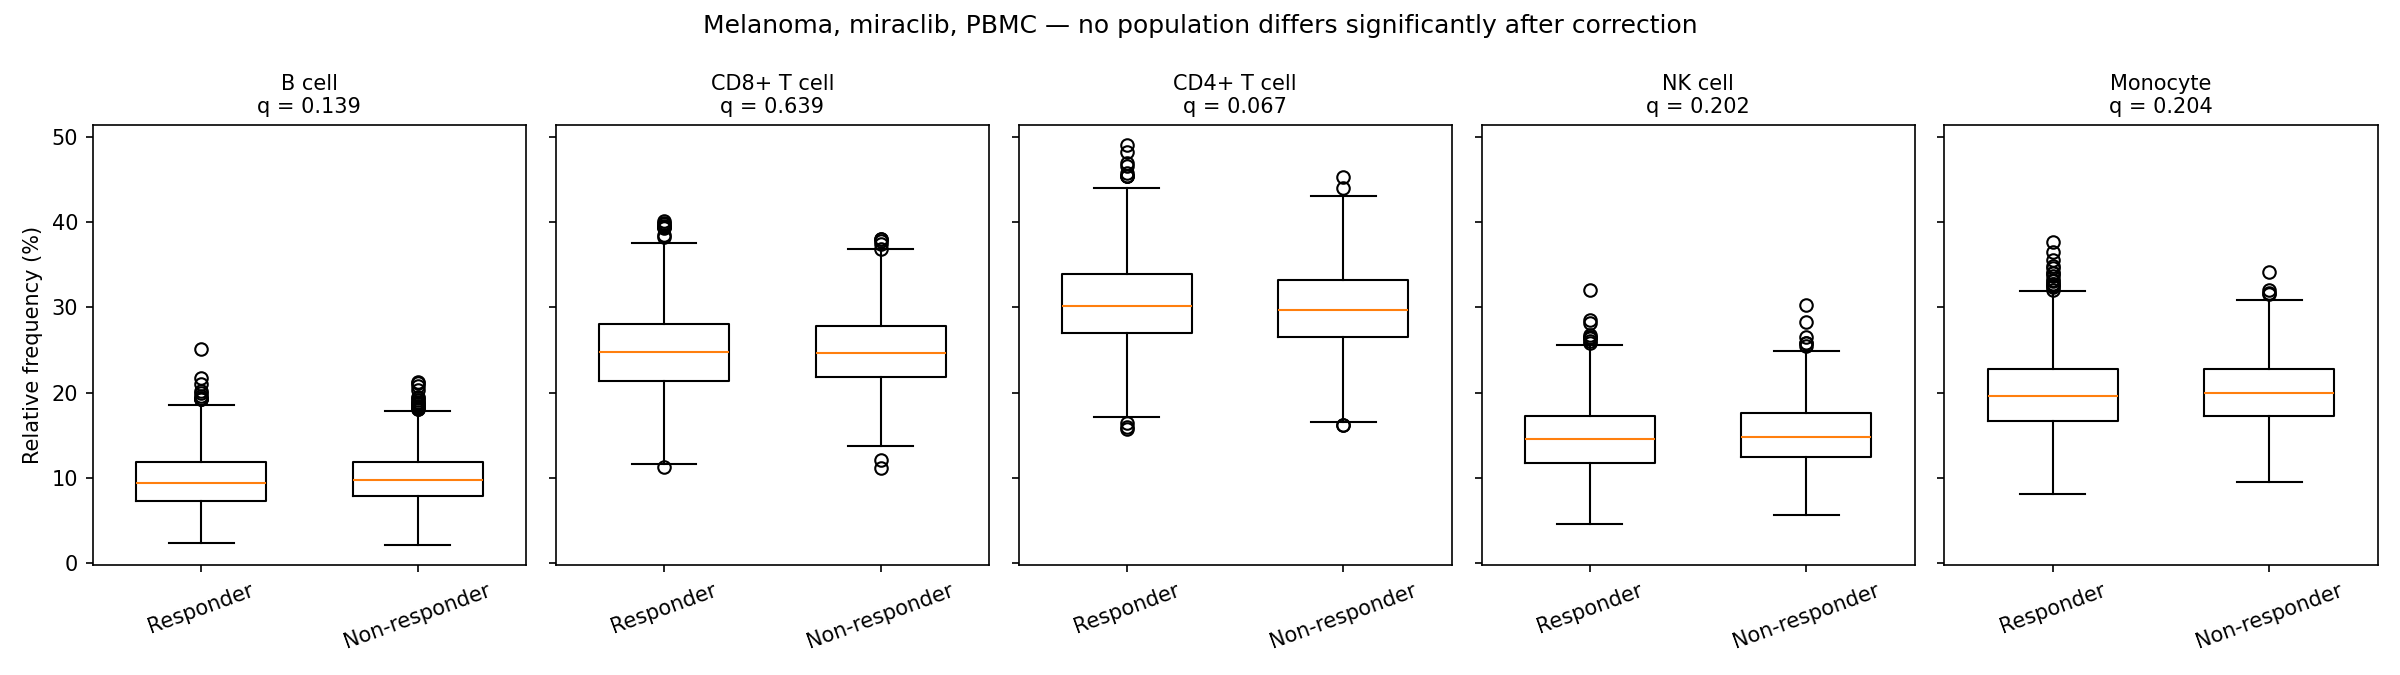
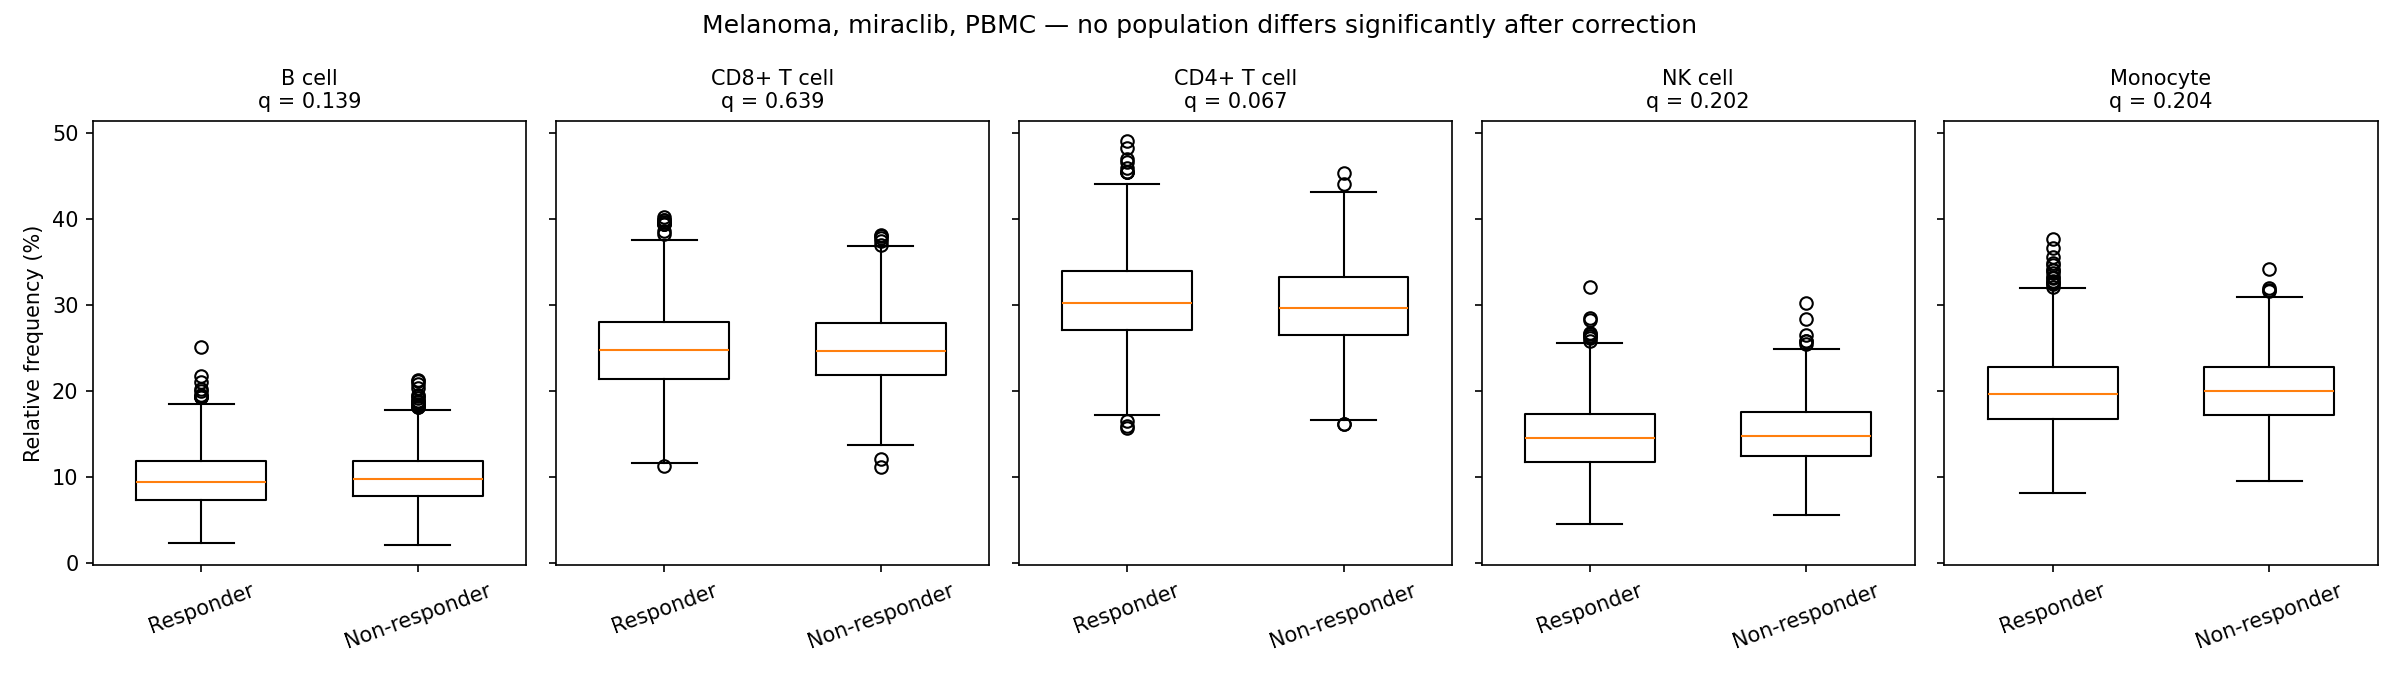
add readme with schema rationale and results

diff --git a/README.md b/README.md
@@ -1,0 +1,216 @@
+# Teiko immune analysis
+
+## What this is
+
+A take-home analysis of `cell-count.csv`: 10,500 samples from 3,500 subjects
+across three projects, each sample counted for five immune cell populations.
+The work answers the four parts of the brief. Part 1 loads the CSV into a
+SQLite database. Part 2 computes relative frequencies. Part 3 tests whether
+any population differs between melanoma responders and non-responders on
+miraclib (PBMC only). Part 4 reports two subset queries, including the mean
+raw B cell count the brief asks for. The deliverables are the database
+pipeline, committed files in `outputs/`, this README, and a hosted Streamlit
+dashboard.
+
+## How to run it
+
+Needs Python 3.10 or newer. From the repository root:
+
+```bash
+make setup      # install the packages in requirements.txt
+make pipeline   # build teiko.db and write everything in outputs/
+make dashboard  # start the Streamlit app on http://localhost:8501
+```
+
+`make setup` upgrades pip and installs pandas, numpy, scipy, matplotlib,
+streamlit, and pytest. A few minutes on a cold machine; much faster if the
+packages are already cached.
+
+`make pipeline` runs `python load_data.py` then `python run_pipeline.py`.
+The first script drops and rebuilds `teiko.db`. The second writes the
+summary table, the responder and timepoint statistics, two boxplot figures,
+and the Part 4 answers. On a laptop this is about a minute. The last line
+should read:
+
+```
+Cohort B average B cell count: 10206.15 over 485 samples
+```
+
+`make dashboard` serves `app.py`. The first visit after a clean checkout
+builds the database if `teiko.db` is missing, which is the path Streamlit
+Cloud takes. Overview, Response, and Subsets read the committed files in
+`outputs/`. Frequencies queries the database.
+
+`make test` runs the pytest suite. It is not required by the brief, but it
+is how the traps in Parts 3 and 4 stay pinned.
+
+## The schema
+
+Five tables and one view.
+
+**`projects`** holds one row per project (`prj1`, `prj2`, `prj3`). Today it
+has a single column, `project_id`. That is deliberate. If the company grew
+to hundreds of projects, site, protocol, sponsor, and dates would attach
+here once, not be copied onto every sample.
+
+**`populations`** is a lookup: `b_cell`, `cd8_t_cell`, `cd4_t_cell`,
+`nk_cell`, `monocyte`, each with a display name and an `ordinal`. The brief
+fixes that order, and it is not alphabetical. Putting the order in the
+table means every chart and every exported table sorts in SQL instead of
+hardcoding the same list in five places. A sixth population would be an
+insert, not an `ALTER TABLE`.
+
+**`subjects`** holds one row per person: project, condition, age, sex,
+treatment, and response. Treatment and response sit here because they are
+constant across all three of a subject's samples in this file. Storing them
+once makes it impossible for the same person to appear as both a responder
+and a non-responder. In a real trial, response is assessed over time and
+would belong on `samples` or in its own table. It is modelled at subject
+level because this dataset makes that true, not because that is always
+right.
+
+The 1,422 healthy subjects have a blank response in the CSV. Those become
+SQL `NULL`. `NULL` is in neither `response = 'yes'` nor `response = 'no'`,
+which is what unknown should mean.
+
+**`samples`** holds one row per draw: the subject, `PBMC` or `WB`, and
+`time_from_treatment_start` (0, 7, or 14).
+
+**`cell_counts`** is long, not wide: one row per sample per population,
+52,500 rows. A wide table with five count columns would need a schema
+change and query edits for every new population. Long form does not.
+
+`total_count` is the sum of those five measured populations, not the true
+total cell count of the tube. Percentages are shares of the measured panel.
+They sum to 100 by construction.
+
+**`sample_frequencies`** is a view over `cell_counts`. It is the only
+definition of relative frequency. The pipeline, the statistics, and the
+dashboard all read it. They cannot drift apart.
+
+Foreign keys are declared in `schema.sql`, but SQLite leaves them off
+unless the connection says `PRAGMA foreign_keys = ON`. That pragma is
+issued in `teiko.db.connect` on every open, not once at create time. A
+connection that skipped it would accept orphan rows. A test inserts a
+count for a sample that does not exist and checks that it fails.
+
+How this holds at hundreds of projects and thousands of samples: subject
+facts stay one row per person no matter how many timepoints arrive, so a
+metadata correction is a one-row update. Cohort filters hit `subjects`,
+which stays small. New analytics are new queries against the view, not
+new loader code. `cell_counts` is the only table that grows with both
+samples and populations, and it is the natural place to partition later.
+The same DDL ports to Postgres with almost no change.
+
+The CSV's real column names win over the brief: `sample`, `condition`,
+and `sex`, not `sample_id`, `indication`, or `gender`. The loader reads
+the file, not the prompt.
+
+## Code structure
+
+Three thin scripts sit at the repository root because the brief names them
+and Codespaces graders run them with no arguments:
+
+| File | What it does |
+| --- | --- |
+| `load_data.py` | Calls `build_database` and prints row counts. |
+| `run_pipeline.py` | Writes every file in `outputs/`. |
+| `app.py` | The Streamlit dashboard. |
+
+The work lives in `teiko/`, imported as `teiko`, not `src.teiko`. A
+`src/` layout would need a package install or a `PYTHONPATH` before
+`python load_data.py` worked. The brief asks for that bare command.
+
+| Module | What it does |
+| --- | --- |
+| `teiko/db.py` | Connect (pragma on), apply `schema.sql`, build the database if it is missing. |
+| `teiko/loading.py` | CSV into the five tables. Drops and rebuilds on every load. |
+| `teiko/frequencies.py` | Reads `sample_frequencies` for Part 2. |
+| `teiko/statistics.py` | Mann-Whitney U, hand-written Benjamini-Hochberg, Cliff's delta, Welch t-test. |
+| `teiko/subsets.py` | The two Part 4 SQL queries. |
+| `teiko/plots.py` | The two boxplot figures. |
+
+`schema.sql` is the DDL and the view. `tests/` pins the load counts, the
+frequency arithmetic, the correction, both Part 4 answers, and an allowlist
+of treatment names so a planted drug that is not in the data cannot sneak
+into a tracked file. `docs/SPEC.md` is the locked contract.
+`docs/DECISIONS.md` is the paper trail of choices.
+
+The pipeline and the dashboard call the same functions. The dashboard does
+not reimplement the statistics in Streamlit.
+
+## Results
+
+### Part 2 — relative frequencies
+
+`outputs/summary_table.csv` has 52,500 rows: one per sample per
+population. For each sample the five percentages sum to 100. Values stay
+unrounded in the database; the CSV rounds percentages to four decimal
+places for reading.
+
+### Part 3 — responders versus non-responders
+
+Cohort: melanoma, miraclib, PBMC only. 656 subjects (331 responders, 325
+non-responders) and 1,968 samples (993 / 975).
+
+Method: two-sided Mann-Whitney U on relative frequency, Benjamini-Hochberg
+across the five populations, Cliff's delta for effect size. A Welch t-test
+and two subject-level checks (per-subject means, baseline only) sit beside
+the headline so the conclusion does not hinge on one test.
+
+**No population differs significantly after correction.** That is the
+finding, not a failed search for a biomarker.
+
+The headline comparison (all 1,968 samples) has one tempting raw p-value:
+CD4 T cells at p ≈ 0.0133. After correction that is q ≈ 0.0667, not
+significant. A Welch t-test on the same rows gives p ≈ 0.005. At baseline,
+where a predictor would have to live, every corrected q is ≈ 0.885 and
+every effect is negligible. Pooling timepoints, skipping the correction,
+and using a t-test as the primary test would invent a CD4 biomarker that
+is not in the data.
+
+A weak B cell shift appears after dosing. It is never significant. The
+smallest corrected q anywhere, across five populations and three
+timepoints, is ≈ 0.072 on day 14. Every Cliff's delta is negligible; the
+largest anywhere is 0.110, below the 0.147 "small" band. At day 0 the B
+cell median difference is +0.03; at day 7 and day 14 it is about −0.73.
+CD4 peaks at day 7 and eases back, so it is not a clean trend.
+
+Bob asked about predicting response. That needs information available
+before treatment starts. Baseline is where this dataset is emptiest. The
+weak on-treatment movement is a pharmacodynamic observation — consistent
+with the drug acting on people who already responded — not a predictor of
+whom to treat. These five frequencies do not predict response to miraclib.
+
+Full tables: `outputs/responder_comparison.csv` and
+`outputs/timepoint_comparison.csv`. Figures: `outputs/boxplots.png` and
+`outputs/boxplots_by_timepoint.png`.
+
+### Part 4 — subsets
+
+Two different cohorts. The brief switches filters without saying so.
+Carrying Cohort A's PBMC and miraclib restrictions into the last question
+is the easy way to get the wrong number.
+
+**Cohort A** — melanoma, PBMC, miraclib, day 0. 656 samples from 656
+subjects.
+
+- Samples per project: prj1 384, prj2 0, prj3 272.
+- Subjects by response: 331 responders, 325 non-responders.
+- Subjects by sex: 344 male, 312 female.
+
+`prj2` has zero rows in this slice and is still listed. A plain
+`GROUP BY` would drop it.
+
+**Cohort B** — melanoma males who responded, day 0, all sample types and
+all treatments. The brief drops the PBMC and miraclib filters here.
+485 samples. Average raw B cell count: **10206.15**.
+
+Raw count, not percentage. Keeping the earlier filters gives a different
+mean on fewer samples.
+
+## Dashboard
+
+Hosted copy: <https://teiko-immune-analysis-hardikv3.streamlit.app/>
+
+Local copy: `make dashboard`, then open http://localhost:8501.

diff --git a/docs/PLAN.md b/docs/PLAN.md
@@ -1709,8 +1709,8 @@ Confirm the Response tab shows the statistics table, not an error.
 
 - [x] **Step 4: Record the URL**
 
-Paste it into the chat so it goes into the README in Task 10. Nothing to commit
-in this task.
+https://teiko-immune-analysis-hardikv3.streamlit.app/ — Python 3.12 on
+Community Cloud. Overview shows 10206.15. In the README in Task 10.
 
 ---
 
@@ -1727,7 +1727,7 @@ in this task.
 **Decisions this task forces:**
 - **[ASK]** How much of the negative result belongs in the README versus the dashboard. Recommend the README states the conclusion and the reasoning in full, since a grader may read it without opening the app.
 
-- [ ] **Step 1: Write `README.md`**
+- [x] **Step 1: Write `README.md`**
 
 Six sections, in this order, following the spec's section 12. Write the prose
 fresh rather than pasting from the spec, and obey the banned word list.
@@ -1748,14 +1748,14 @@ fresh rather than pasting from the spec, and obey the banned word list.
    pattern, and the Part 4 answers with both cohorts described separately.
 6. **Dashboard** — the URL from Task 9.
 
-- [ ] **Step 2: Verify the README's numbers against the outputs**
+- [x] **Step 2: Verify the README's numbers against the outputs**
 
 Run: `cat outputs/part4_answers.md`
 
 Every number in the README's results section must match this file exactly. Do
 not retype them from memory.
 
-- [ ] **Step 3: Run the full suite and the full pipeline from clean**
+- [x] **Step 3: Run the full suite and the full pipeline from clean**
 
 ```bash
 rm -rf teiko.db outputs/*.csv outputs/*.png outputs/*.md
@@ -1771,7 +1771,12 @@ Open the repository on GitHub, create a Codespace on `main`, and run all three
 targets there. A local run does not count as this check. Confirm
 `make dashboard` serves and the forwarded port opens.
 
-- [ ] **Step 5: Final canary sweep**
+Local clean run on 2026-09-05: `make setup && make pipeline && make test`
+printed `Cohort B average B cell count: 10206.15 over 485 samples` and
+18 tests passed. `gh` on this machine has an invalid token, so the
+Codespace itself still needs a human.
+
+- [x] **Step 5: Final canary sweep**
 
 ```bash
 python -m pytest tests/test_integrity.py -v
@@ -1780,7 +1785,7 @@ python -m pytest tests/test_integrity.py -v
 Expected: the test passes. It is the allowlist check from spec section 14 —
 it fails if any tracked file names a treatment that is not in the data.
 
-- [ ] **Step 6: Commit and push**
+- [x] **Step 6: Commit and push**
 
 ```bash
 git add README.md outputs/ docs/DECISIONS.md

diff --git a/docs/DECISIONS.md b/docs/DECISIONS.md
@@ -761,3 +761,22 @@ requirements file.
 
 Costs: a Codespace and Cloud may install slightly different versions.
 The tests check direction and pinned answers, not a bit-identical scipy.
+
+---
+
+## D-031 · Full negative result in the README
+Date: 2026-09-05 · Task 10 · Status: accepted
+
+Chose: the README states the Part 3 conclusion in full — no population
+significant after correction, the CD4 raw-p trap, the empty baseline, the
+weak on-treatment B cell shift, and why that is pharmacodynamic rather
+than predictive — plus both Part 4 cohorts and 10206.15.
+
+Because: a grader can read the repository without opening the dashboard.
+The brief asks for the README to explain the analysis. Hiding the finding
+behind a URL would fail that.
+
+Rejected: a one-line "nothing was significant" with the detail only in
+the app. Too easy to miss, and the app sleeps on the free tier.
+
+Costs: the Results section is long. That is the point of a graded writeup.
